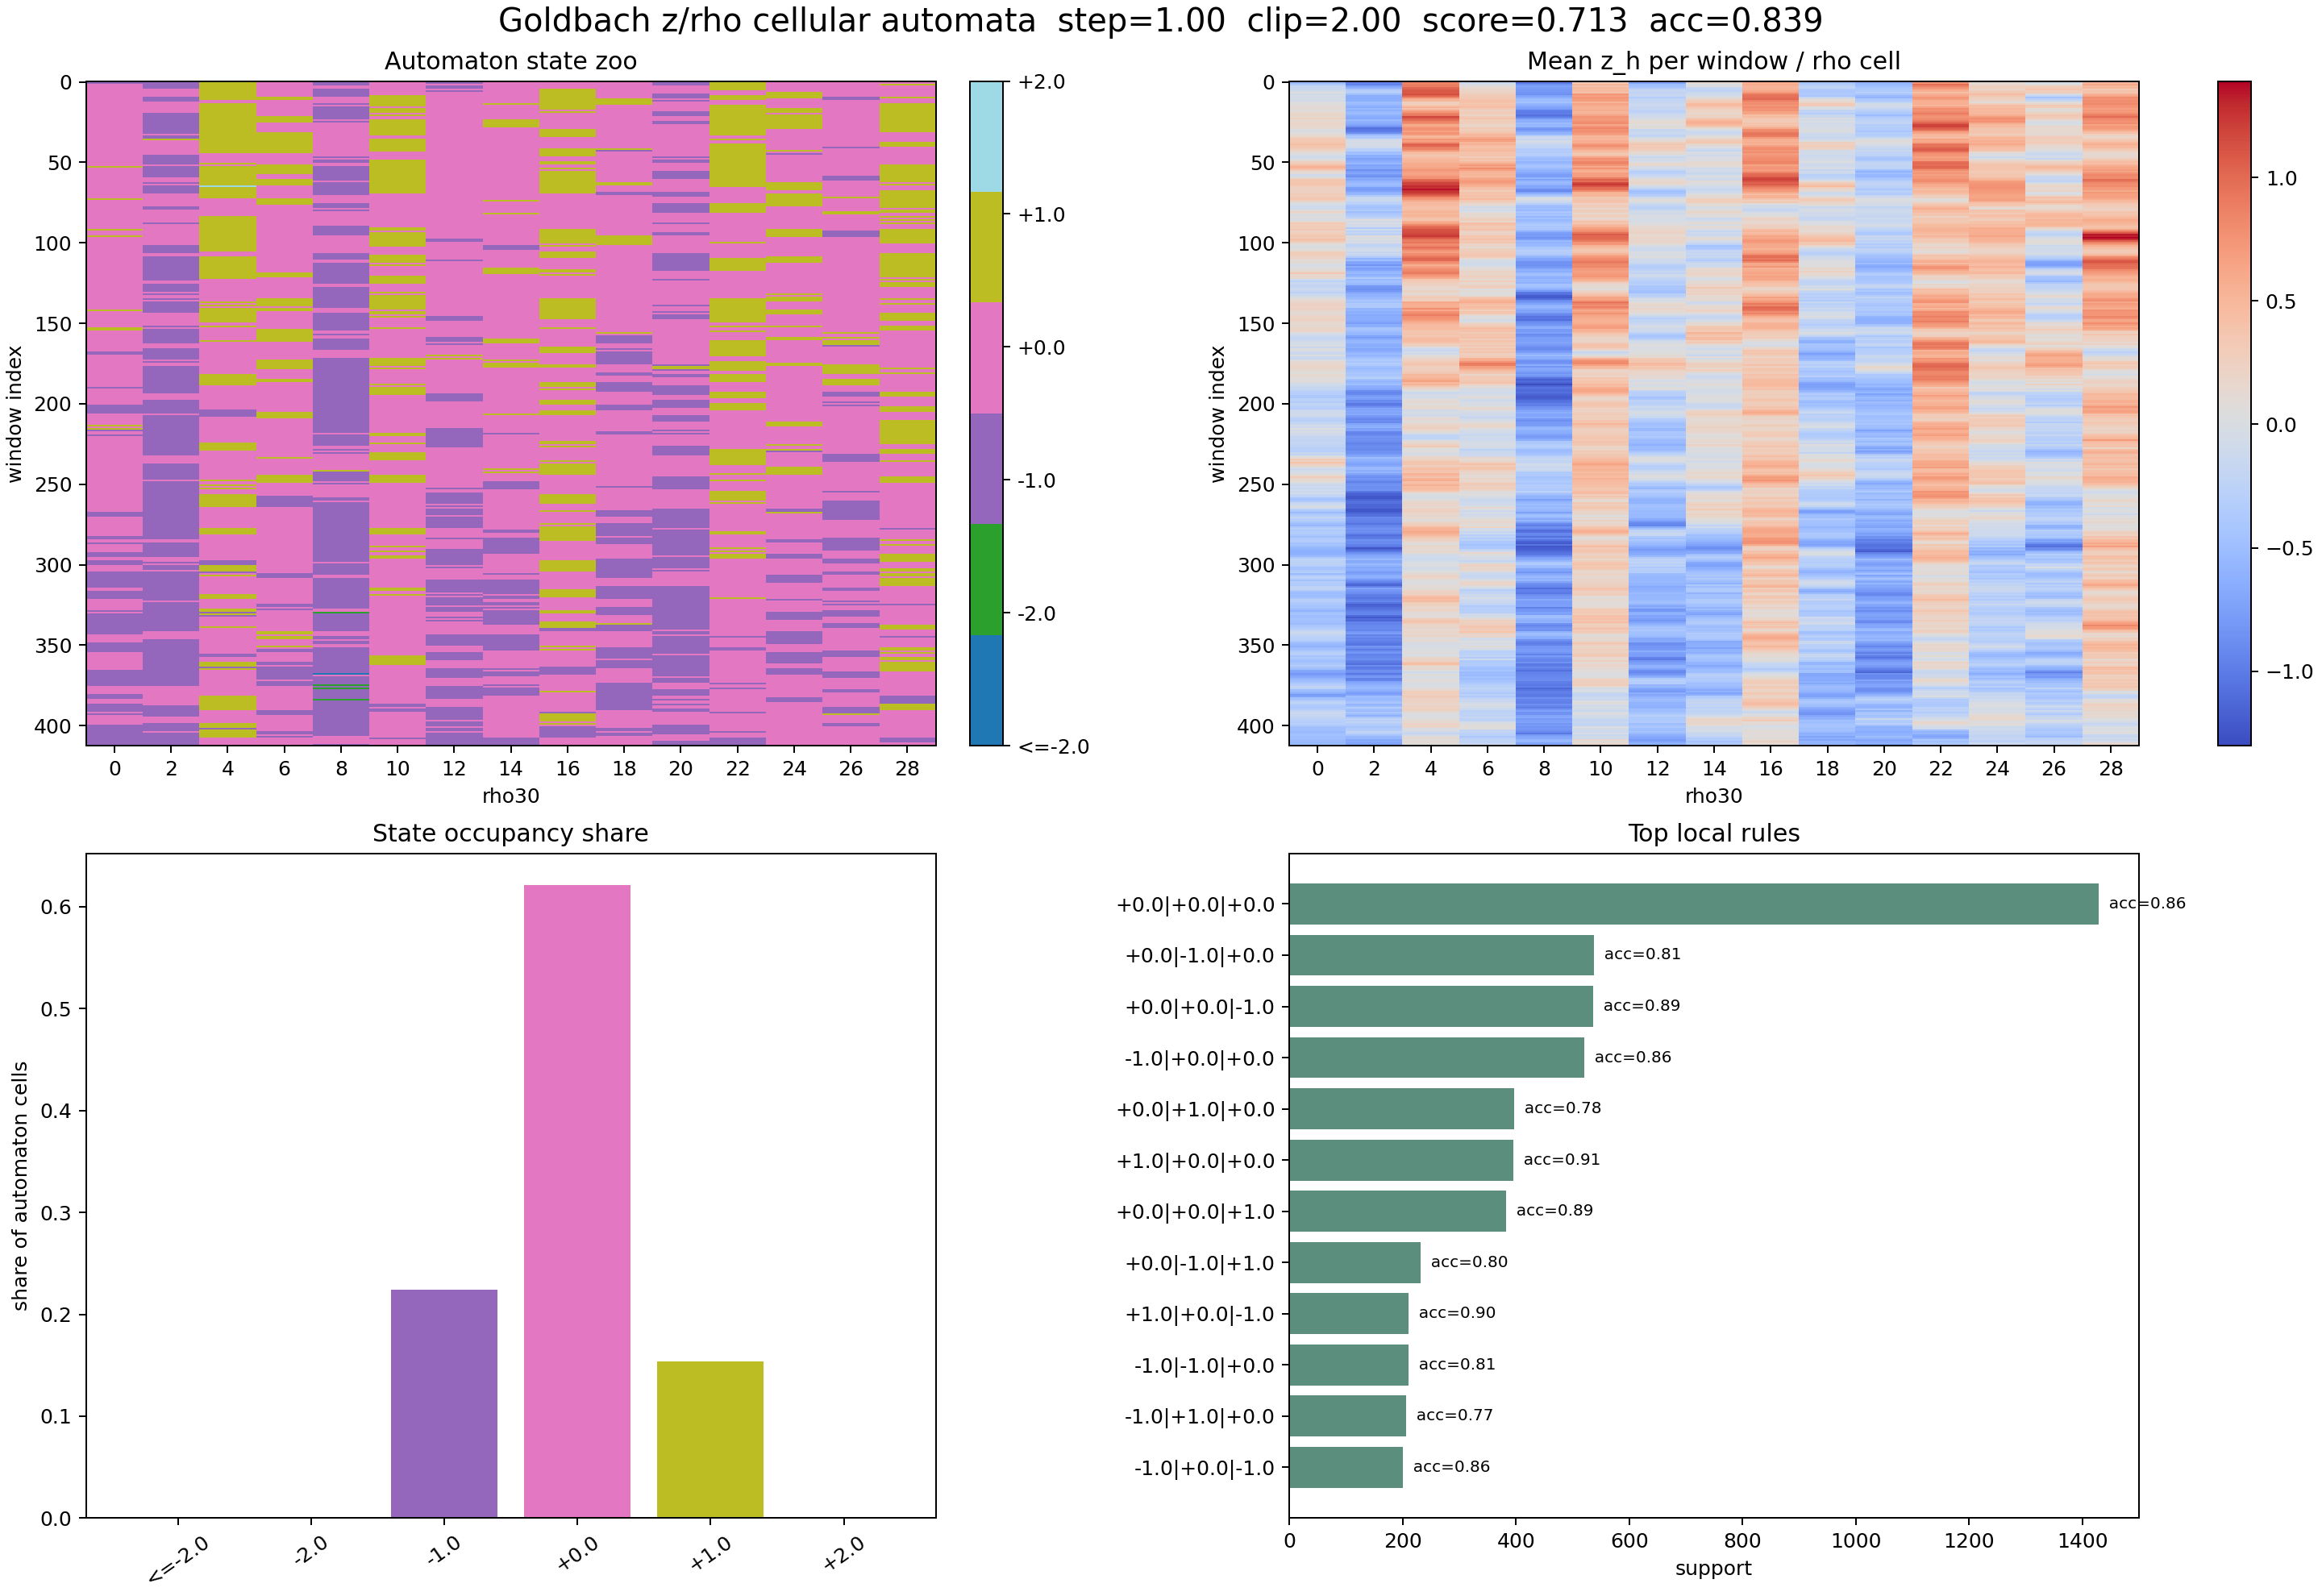
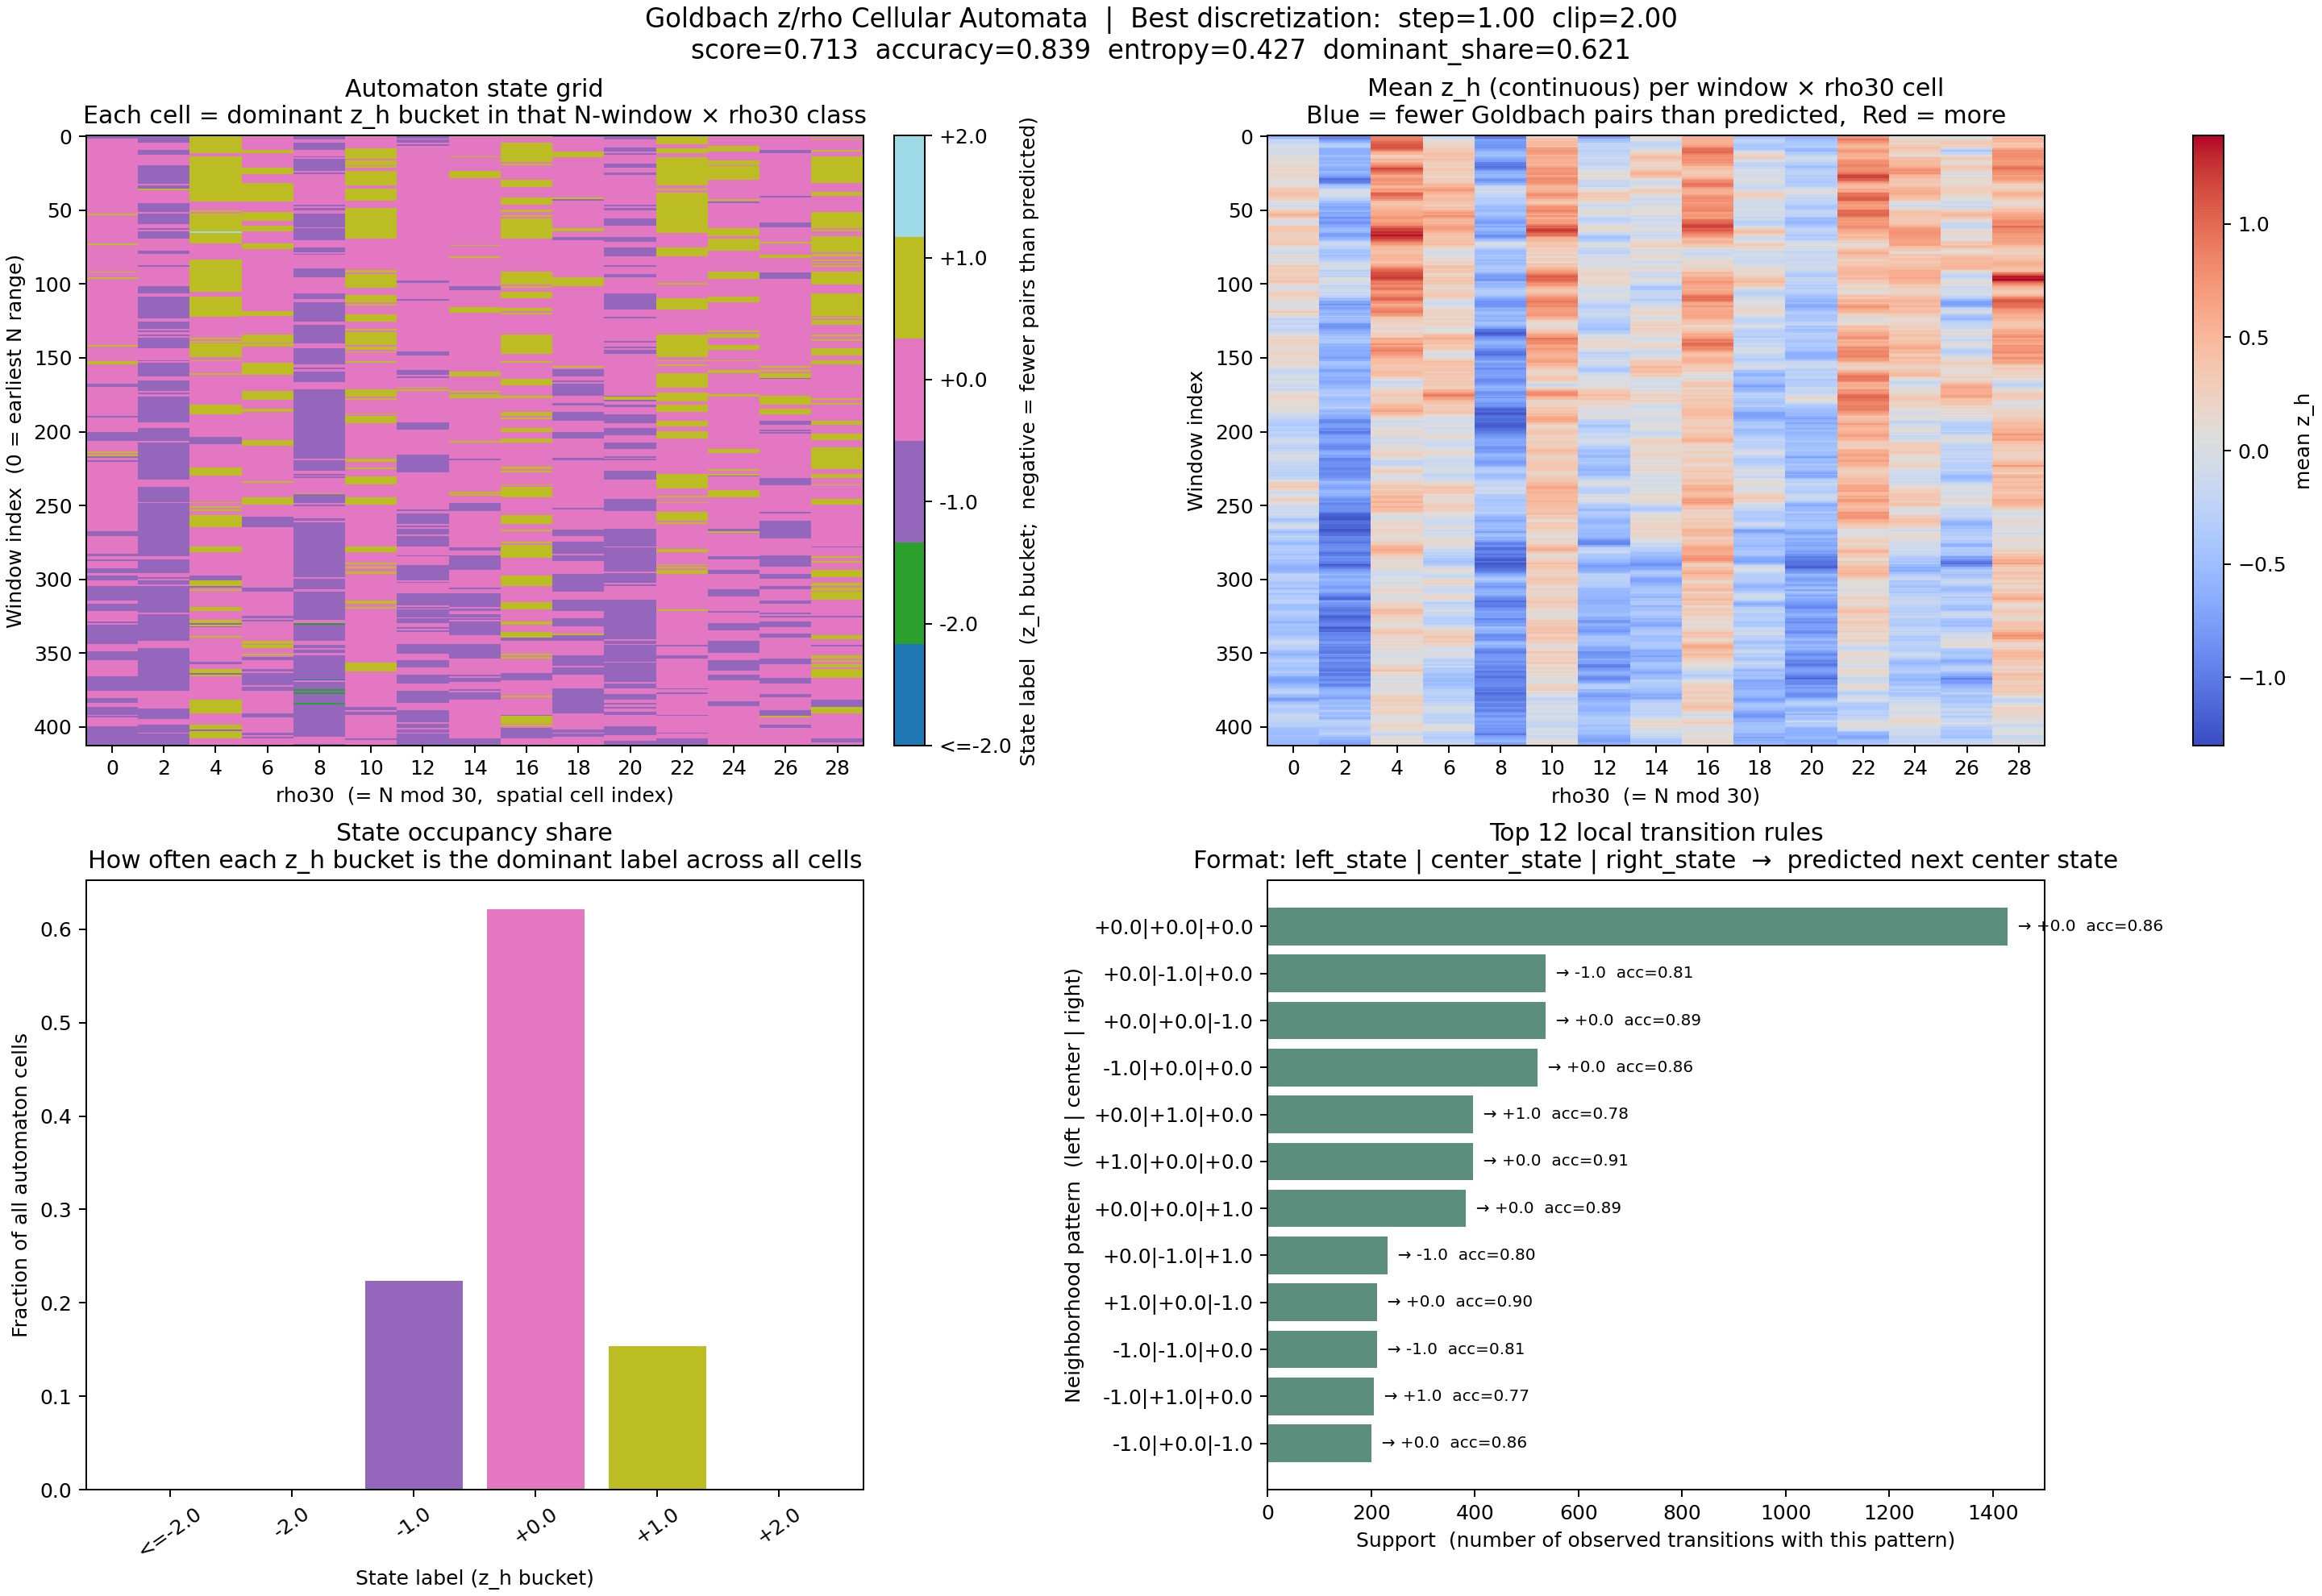
Add busy beaver machine specification, update CSV headers, and introduce Goldbach automata legend

diff --git a/scripts/busy_beaver_waring_goldbach.py b/scripts/busy_beaver_waring_goldbach.py
@@ -53,6 +53,15 @@ TRANSITION_RANK = {
     "STOP": 4,
 }
 
+# Shell labels: residue mod 30 → (description, plot colour)
+# Each residue class is one "prime-boost shell" in the space-time tableau.
+SHELL_META: dict[int, tuple[str, str]] = {
+    1:  ("blank  / no head",    "#4a9eff"),   # blue  — background tape
+    7:  ("symbol=1 / no head",  "#ff7c43"),   # amber — written cells
+    11: ("blank  + head",       "#a8e6a3"),   # green — head on blank
+    13: ("symbol=1 + head",     "#ffd700"),   # gold  — head on symbol=1
+}
+
 
 @dataclass(frozen=True)
 class Transition:
@@ -111,6 +120,24 @@ def builtin_machines() -> dict[str, MachineSpec]:
                 ("B", 1): Transition(write=1, move=1, next_state="B"),
                 ("C", 0): Transition(write=1, move=-1, next_state="C"),
                 ("C", 1): Transition(write=1, move=-1, next_state="A"),
+            },
+        ),
+        # BB(4) champion: 107 steps, 13 ones (Rado 1962 / Brady 1983)
+        # This is the verified 4-state 2-symbol busy beaver.
+        "bb4": MachineSpec(
+            name="bb4",
+            states=("A", "B", "C", "D"),
+            start_state="A",
+            halt_state="H",
+            transitions={
+                ("A", 0): Transition(write=1, move=1,  next_state="B"),
+                ("A", 1): Transition(write=1, move=-1, next_state="B"),
+                ("B", 0): Transition(write=1, move=-1, next_state="A"),
+                ("B", 1): Transition(write=0, move=-1, next_state="C"),
+                ("C", 0): Transition(write=1, move=1,  next_state="H"),
+                ("C", 1): Transition(write=1, move=-1, next_state="D"),
+                ("D", 0): Transition(write=1, move=1,  next_state="D"),
+                ("D", 1): Transition(write=0, move=1,  next_state="A"),
             },
         ),
     }